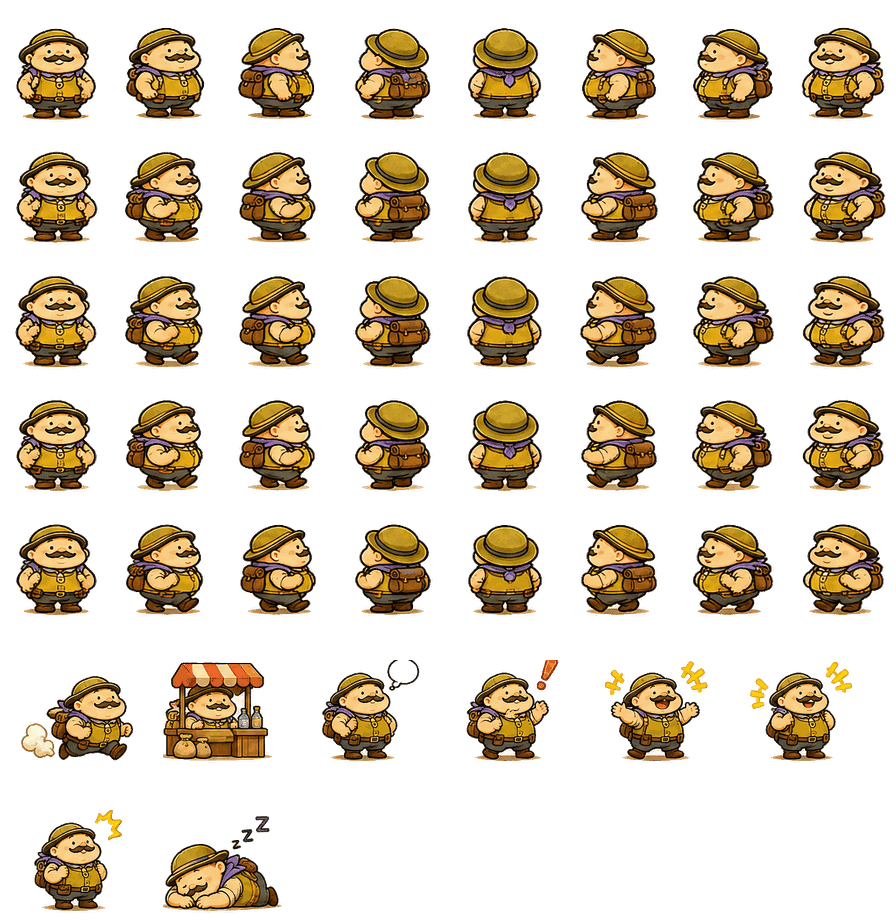
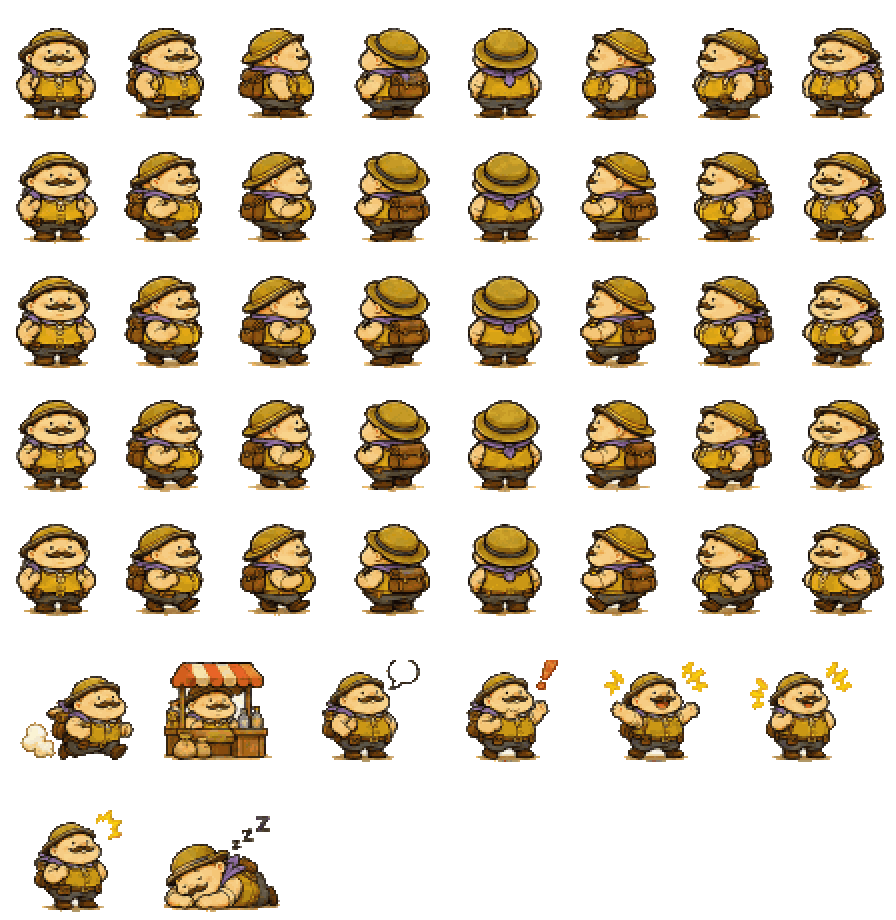
ゲーム: キャラクターとモンスターのドットの粗さをレインにそろえる
Claude-Session: https://claude.ai/code/session_01SaHn9ks9dncxXxV33h9duz

diff --git a/game/index.html b/game/index.html
@@ -49,7 +49,7 @@ input,textarea,select{font-size:16px}
 #talk .hint{font-size:13px;color:#8a6a40}
 .sheet{position:fixed;left:0;right:0;bottom:0;max-height:86%;background:var(--paper);border-radius:22px 22px 0 0;padding:18px 16px max(18px,env(safe-area-inset-bottom));box-shadow:0 -8px 30px #0006;transform:translateY(105%);transition:transform .28s ease;overflow-y:auto;max-width:640px;margin:0 auto;z-index:4}
 .sheet.on{transform:none}
-.monbook{display:grid;grid-template-columns:repeat(auto-fill,minmax(66px,1fr));gap:6px;margin-top:6px}.monbook .mb{background:#fff8ea;border:1.5px solid #e2cfa8;border-radius:10px;padding:4px 2px 5px;text-align:center;font-size:10px;line-height:1.25}.monbook i{display:block;width:60px;height:60px;margin:0 auto;background:url(monbook.png?v=1) no-repeat;background-size:540px 360px}.monbook .un i{filter:brightness(0);opacity:.22}.monbook b{display:block;font-weight:700}.monbook small{color:#9a7a50}
+.monbook{display:grid;grid-template-columns:repeat(auto-fill,minmax(66px,1fr));gap:6px;margin-top:6px}.monbook .mb{background:#fff8ea;border:1.5px solid #e2cfa8;border-radius:10px;padding:4px 2px 5px;text-align:center;font-size:10px;line-height:1.25}.monbook i{image-rendering:pixelated;display:block;width:60px;height:60px;margin:0 auto;background:url(monbook.png?v=2) no-repeat;background-size:540px 360px}.monbook .un i{filter:brightness(0);opacity:.22}.monbook b{display:block;font-weight:700}.monbook small{color:#9a7a50}
 .sheet h2{margin:0 0 4px;font-size:22px;font-weight:900;padding-right:80px}
 .sheet h3{margin:16px 0 6px;font-size:17px}
 .sheet .sub{margin:0 0 12px;font-size:14px;color:#7a6248}
@@ -1328,11 +1328,11 @@ function rainExp(){if(P.smT>0)return'smile';if(P.emT>0&&P.emote){if(P.emote.incl
 // ================= レインのドット絵スプライト =================
 const RSP={img:new Image(),ok:false,CW:112,CH:124,FX:56,FY:118,AW:146,AH:150,AY:620,AFX:73,AFY:140,
  act:{dash:0,atk:1,tool:2,pick:3,cook:4,done:5,sur:6,think:7,joy:8,sleep:9},oct:[2,1,0,7,6,5,4,3]};
-RSP.img.onload=()=>{RSP.ok=true};RSP.img.src='rain_sprites.png?v=1';
+RSP.img.onload=()=>{RSP.ok=true};RSP.img.src='rain_sprites.png?v=2';
 function setFace(x,y){P.face=Math.abs(y)>Math.abs(x)*1.15?(y>0?'d':'u'):'s';const k=((Math.round(Math.atan2(y,x)/(Math.PI/4))%8)+8)%8;P.d8=RSP.oct[k];P._pd=P.dir}
 // 8方向コマ: col(0前 1右前 2右 3右後 4後 5左後 6左 7左前), row(0立ち 1-4歩き)
-function rainSpr(g,col,row,x,y,s){const{CW,CH,FX,FY}=RSP;g.drawImage(RSP.img,col*CW,row*CH,CW,CH,x-FX*s,y-FY*s,CW*s,CH*s)}
-function rainAct(g,name,x,y,s,flip){const i=RSP.act[name],c=i%6,r=(i/6)|0,{AW,AH,AY,AFX,AFY}=RSP;g.save();g.translate(x,y);if(flip)g.scale(-1,1);g.drawImage(RSP.img,c*AW,AY+r*AH,AW,AH,-AFX*s,-AFY*s,AW*s,AH*s);g.restore()}
+function rainSpr(g,col,row,x,y,s){const{CW,CH,FX,FY}=RSP;g.imageSmoothingEnabled=false;g.drawImage(RSP.img,col*CW,row*CH,CW,CH,x-FX*s,y-FY*s,CW*s,CH*s)}
+function rainAct(g,name,x,y,s,flip){const i=RSP.act[name],c=i%6,r=(i/6)|0,{AW,AH,AY,AFX,AFY}=RSP;g.save();g.translate(x,y);if(flip)g.scale(-1,1);g.imageSmoothingEnabled=false;g.drawImage(RSP.img,c*AW,AY+r*AH,AW,AH,-AFX*s,-AFY*s,AW*s,AH*s);g.restore();g.imageSmoothingEnabled=true}
 function rainPose(){
  if(P.ride)return null;
  if(P.actT>0&&P.act)return P.act;
@@ -1351,14 +1351,14 @@ const CSPR={
  hadof:{k:.56,idle:'shop',act:{dash:0,shop:1,think:2,sur:3,laugh:4,joy:5,repair:6,sleep:7}},
  kuzu:{k:.56,idle:'sell',act:{dash:0,sell:1,think:2,sur:3,laugh:4,joy:5,odoroku:6,sleep:7}},
  granny:{k:.58,idle:'pray',act:{dash:0,talk:1,think:2,sur:3,laugh:4,joy:5,pray:6,sleep:7}}};
-for(const k in CSPR){const c=CSPR[k];c.img=new Image();c.img.onload=()=>{c.ok=true};c.img.src='spr_'+k+'.png?v=1'}
+for(const k in CSPR){const c=CSPR[k];c.img=new Image();c.img.onload=()=>{c.ok=true};c.img.src='spr_'+k+'.png?v=2'}
 function d8To(dx,dy){const k=((Math.round(Math.atan2(dy,dx)/(Math.PI/4))%8)+8)%8;return RSP.oct[k]}
 function drawCSpr(type,x,y,o){
- const c=CSPR[type],s=c.k*(o.s||1),{CW,CH,FX,FY,AW,AH,AY,AFX,AFY}=RSP;
+ const c=CSPR[type],s=c.k*(o.s||1),{CW,CH,FX,FY,AW,AH,AY,AFX,AFY}=RSP;cx.imageSmoothingEnabled=false;
  if(o.fl>0&&Math.floor(time*24)%2)cx.globalAlpha=.4;
  if(o.act!=null&&c.act[o.act]!=null){const i=c.act[o.act],cc=i%6,r=(i/6)|0;cx.save();cx.translate(x,y);if(o.dir<0)cx.scale(-1,1);cx.drawImage(c.img,cc*AW,AY+r*AH,AW,AH,-AFX*s,-AFY*s,AW*s,AH*s);cx.restore()}
  else{const col=o.d8!=null?o.d8:(o.dir>0?2:o.dir<0?6:0),row=o.mv?1+(Math.floor((o.st||0)*4/(Math.PI*2))%4+4)%4:0;cx.drawImage(c.img,col*CW,row*CH,CW,CH,x-FX*s,y-FY*s,CW*s,CH*s)}
- cx.globalAlpha=1}
+ cx.globalAlpha=1;cx.imageSmoothingEnabled=true}
 // 村人の位置（家の中の人は roomId が一致するときだけ）
 const npcHere=n=>(n.room||null)===(roomId||null);
 const npcX=n=>n.room?n.rx:n.x,npcY=n=>n.room?n.ry:n.y;
@@ -1379,7 +1379,7 @@ function drawNPC(n,i){
  if(pd<120){cx.font='700 12px "Zen Maru Gothic",sans-serif';cx.textAlign='center';cx.fillStyle='#000a';cx.fillText(n.n,x+1,y+17);cx.fillStyle='#fff';cx.fillText(n.n,x,y+16)}}
 // ================= モンスター =================
 const BOOK=['スライム','イノシシ','キノコ','ドラゴンコウモリ','ウサギン','トゲリス','プヨゼリー','ハナムシ','ツノービー','ミミカル','ロックン','モグラドン','フラワン','リーファ','ヒツジール','カニッコ','タコポン','サンシェル','アイスライム','ファイアスライム','サンダースライム','ゴースライム','メタルスライム','ウッドゴーレム','ストーンゴーレム','アイアンゴーレム','マグマゴーレム','ミズドラゴン','フレイムドラゴン','グリーンドラゴン','アイスドラゴン','エレキドラゴン','スカルナイト','ゴブリン','オーク','オニゴブリン','ムーンウルフ','サンドワーム','バジリスク','ミミック','トレント','ウィスプ','カボチャナイト','ノーム','フェアリー','クラーケン','ワイバーン','グリフォン','ユキオロチ','フェニックス','ダークドラゴン','キングスライム','リッチ','古のドラゴン'];
-const MONIMG=new Image(),BOOKIMG=new Image();let MON_OK=false,BOOK_OK=false;MONIMG.onload=()=>MON_OK=true;BOOKIMG.onload=()=>BOOK_OK=true;MONIMG.src='monsters.png?v=1';BOOKIMG.src='monbook.png?v=1';
+const MONIMG=new Image(),BOOKIMG=new Image();let MON_OK=false,BOOK_OK=false;MONIMG.onload=()=>MON_OK=true;BOOKIMG.onload=()=>BOOK_OK=true;MONIMG.src='monsters.png?v=2';BOOKIMG.src='monbook.png?v=2';
 {const T={1:{hp:3,spd:80,dmg:1,exp:3,s:.9,coin:[3,4]},2:{hp:6,spd:90,dmg:1,exp:6,s:1,coin:[6,6]},3:{hp:12,spd:85,dmg:2,exp:12,s:1.15,coin:[10,10]},4:{hp:30,spd:75,dmg:3,exp:40,s:1.55,coin:[30,20]}};
  const tier=i=>[45,46,47,48,49,50,51,52,53].includes(i)?4:[23,24,25,26,27,28,29,30,31,32,34,35,38,39,40,42].includes(i)?3:[10,18,19,20,21,33,36,37,41,43,44].includes(i)?2:1;
  Object.assign(EK,{slime:{n:'スライム',hp:2,spd:70,dmg:1,exp:2,s:1,coin:[3,4],mon:0,book:0,tier:1},boar:{n:'イノシシ',hp:5,spd:115,dmg:2,exp:5,s:1,coin:[5,5],mon:1,book:1,tier:2},kinoko:{n:'キノコ',hp:3,spd:60,dmg:1,exp:3,s:1,coin:[3,4],mon:2,book:2,tier:1},dbat:{n:'ドラゴンコウモリ',hp:6,spd:120,dmg:2,exp:7,s:1,coin:[6,6],mon:3,book:3,tier:2}});
@@ -1390,13 +1390,13 @@ const MSPAWN={field:['slime','slime','kinoko','m4','buta','buta','boar','m22','m
  snow:['m18','m30','m21','m48','m53'],hot:['m19','m26','m28','m31','m49'],island:['m44','m39','m27'],river:['slime'],meadow2:[]};
 function pickKind(r){const L=MSPAWN[r]||MSPAWN.field;for(let t=0;t<6;t++){const k=L[Math.floor(Math.random()*L.length)],K=EK[k];if(K.tier===4&&(Math.random()>.18||S.stage<2||S.lv<6))continue;if(K.tier===3&&S.stage<2&&S.lv<5)continue;if(k==='m22'&&Math.random()>.25)continue;return k}return L[0]}
 function drawMon(e,K){
- const s=K.s,mv=e._mv,b=mv?Math.abs(Math.sin(time*9+e.a))*3:Math.sin(time*2+e.a)*.6;
+ cx.imageSmoothingEnabled=false;const s=K.s,mv=e._mv,b=mv?Math.abs(Math.sin(time*9+e.a))*3:Math.sin(time*2+e.a)*.6;
  if(e.fl>0&&Math.floor(time*24)%2)cx.globalAlpha=.45;
  if(K.mon!=null&&MON_OK){const d=Math.hypot(P.x-e.x,P.y-e.y);let col=e._d8!=null?e._d8:0;
   if(e.fl>0)col=8;else if(d<26*s+20&&!room)col=9;else if(e._sur>0)col=10;
   const k=.5*s,sq=K.mon===0?1+Math.sin(time*10+e.a)*.07:1;cx.drawImage(MONIMG,col*112,K.mon*112,112,112,e.x-56*k*sq,e.y-104*k/sq-(K.mon===3?6+Math.sin(time*12+e.a)*3:b*(K.mon===0?.3:1)),112*k*sq,112*k/sq)}
  else if(K.icon!=null&&BOOK_OK){const i=K.icon,k=.46*s,c=i%9,r=(i/9)|0;cx.save();cx.translate(e.x,e.y-b);if(e._vx>2)cx.scale(-1,1);cx.drawImage(BOOKIMG,c*100,r*100,100,100,-50*k,-96*k,100*k,100*k);cx.restore()}
- cx.globalAlpha=1}
+ cx.globalAlpha=1;cx.imageSmoothingEnabled=true}
 function drawMonBook(){
  const box=$('monBook');if(!box)return;S.mk=S.mk||{};let n=0,h='';
  BOOK.forEach((nm,i)=>{const c=S.mk[i]||0;if(c)n++;const x=(i%9)*60,y=((i/9)|0)*60;h+=`<div class="mb${c?'':' un'}"><i style="background-position:-${x}px -${y}px"></i><b>${c?nm:'？？？'}</b>${c?`<small>×${c}</small>`:''}</div>`});
@@ -1411,7 +1411,7 @@ CSPR.akarun={k:.56,act:{dash:0,atk:1,tool:2,pick:3,cook:4,done:5,sur:6,think:7,j
 CSPR.sakana={k:.56,idle:'fish',act:{idle:0,sur:1,laugh:2,think:3,hold:4,fish:5,net:6,cut:7,carry:8,joy:9,tired:10,sleep:11}};
 CSPR.riku={k:.55,act:{idle:0,sur:1,laugh:2,think:3,joy:4,run:5,jump:6,sleep:7,wave:8,hold:9,cheer:10,sit:11}};
 CSPR.ruka={k:.55,act:{idle:0,sur:1,laugh:2,think:3,joy:4,run:5,jump:6,sleep:7,wave:8,hold:9,cheer:10,sit:11}};
-for(const k of['akarun','sakana','riku','ruka']){const c=CSPR[k];c.img=new Image();c.img.onload=()=>{c.ok=true};c.img.src='spr_'+k+'.png?v=1'}
+for(const k of['akarun','sakana','riku','ruka']){const c=CSPR[k];c.img=new Image();c.img.onload=()=>{c.ok=true};c.img.src='spr_'+k+'.png?v=2'}
 function updFolk(dt){for(const f of XF){if(!f.wander||(f.room||null)!==(roomId||null))continue;const w=f._w||(f._w={hx:f.x,hy:f.y,tx:f.x,ty:f.y,wait:Math.random()*3,st:0,mv:0,d8:0});
  if(Math.hypot(P.x-f.x,P.y-f.y)<90||storyEventActive){w.mv=0;continue}if(w.wait>0){w.wait-=dt;w.mv=0;continue}
  const dx=w.tx-f.x,dy=w.ty-f.y,d=Math.hypot(dx,dy);if(d<3){w.wait=1+Math.random()*3;const a=Math.random()*6.28,r=Math.random()*f.wander;w.tx=w.hx+Math.cos(a)*r;w.ty=w.hy+Math.sin(a)*r*.6;w.mv=0;continue}
